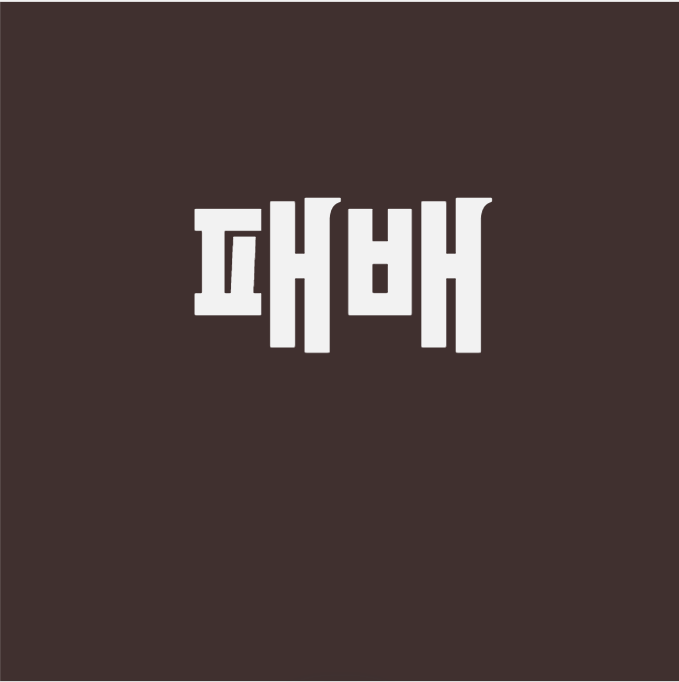
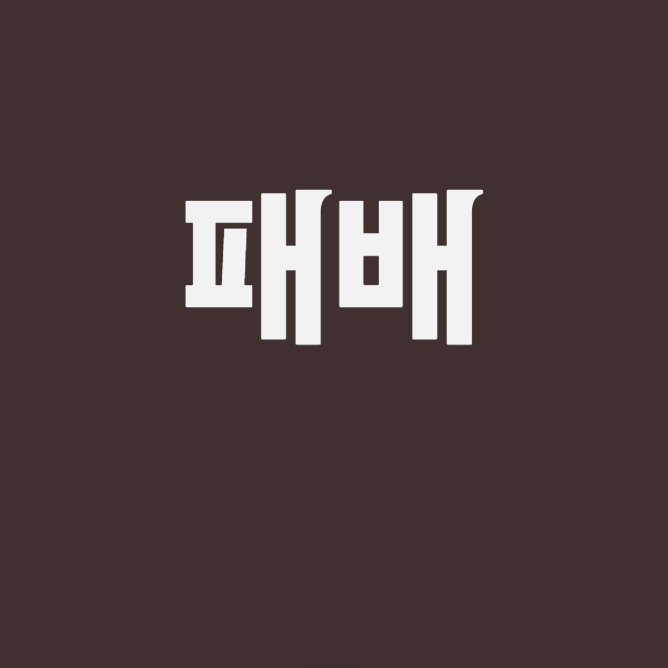
:lipstick: 결과 html 태그 오류 수정, 이미지 바꾸기

Changed region(s): [[0.2695, 0.2695, 0.7186, 0.509], [0.0, 0.988, 1.0, 1.0]]

diff --git a/src/ServerManager.java b/src/ServerManager.java
@@ -360,7 +360,7 @@ public class ServerManager {
 
             // 아무도 투표하지 않은 경우 처리
             if (voteCounts.isEmpty()) {
-                String liarVictoryMessage = "라이어: " + liar.name + "</html>";
+                String liarVictoryMessage = "라이어: " + liar.name;
                 System.out.println(liarVictoryMessage);
 
                 // 라이어에게 메시지 전송

diff --git a/src/GamePanel.java b/src/GamePanel.java
@@ -470,7 +470,7 @@ public class GamePanel extends JPanel {
         clearLines(); // 기존 그림 데이터 초기화
 
         // 캔버스 크기 지정
-        Dimension canvasSize = new Dimension(300, 300);
+        Dimension canvasSize = new Dimension(365, 365);
 
         // 배경 이미지 설정
         ImageIcon resizedIcon = resizeImageIcon(imagePath, canvasSize);
